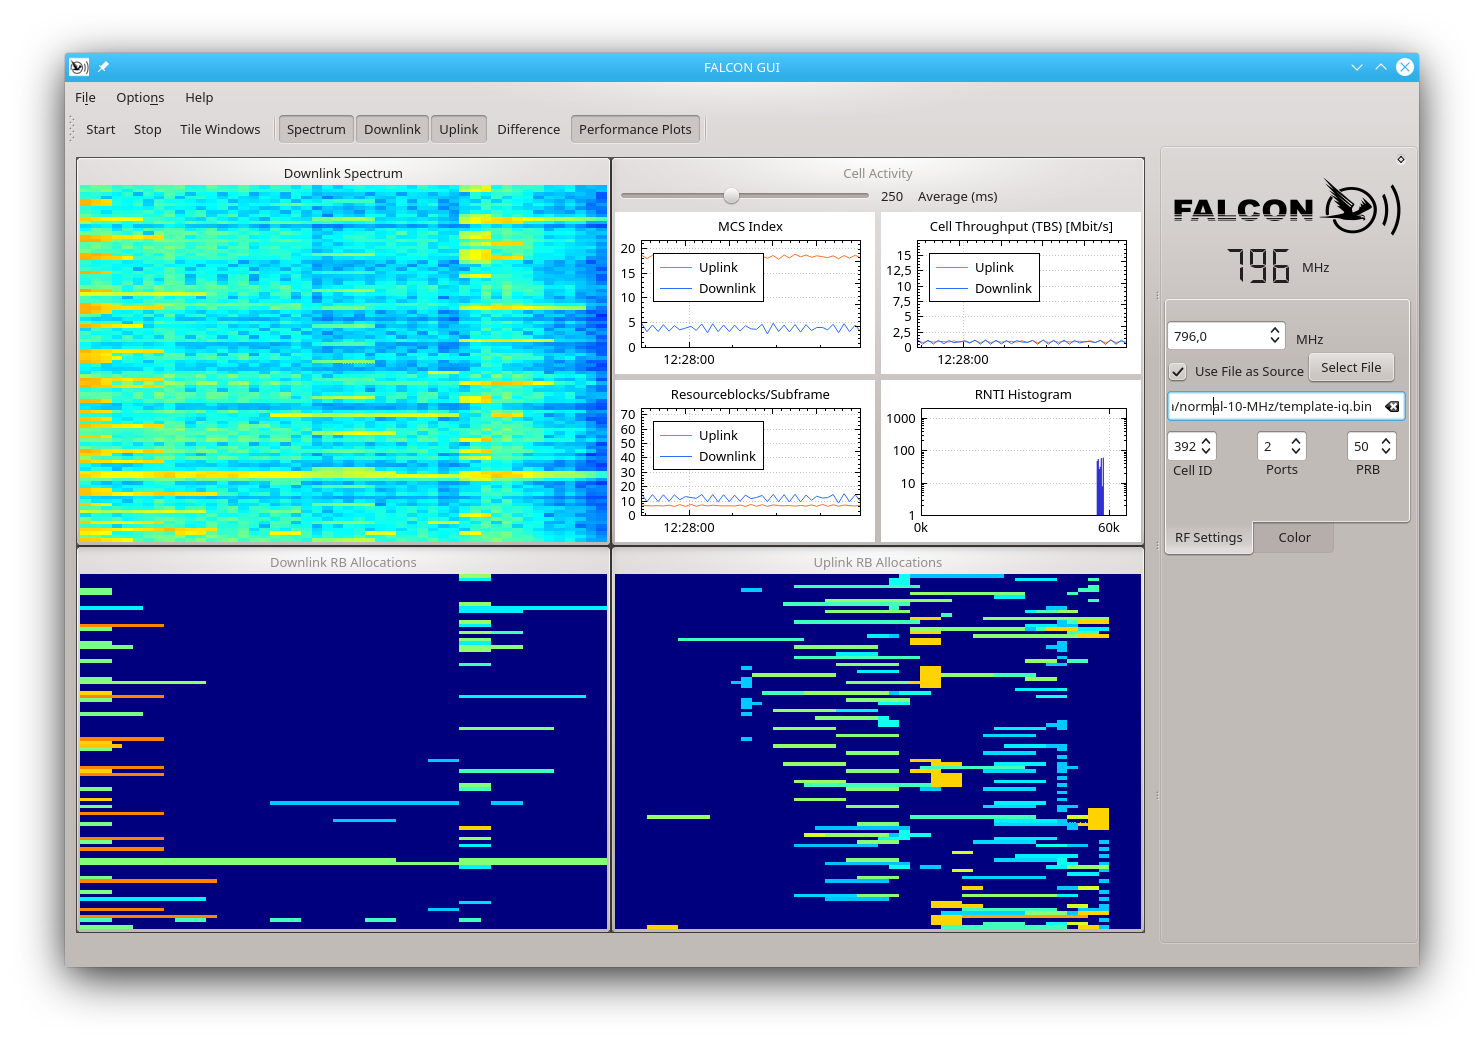
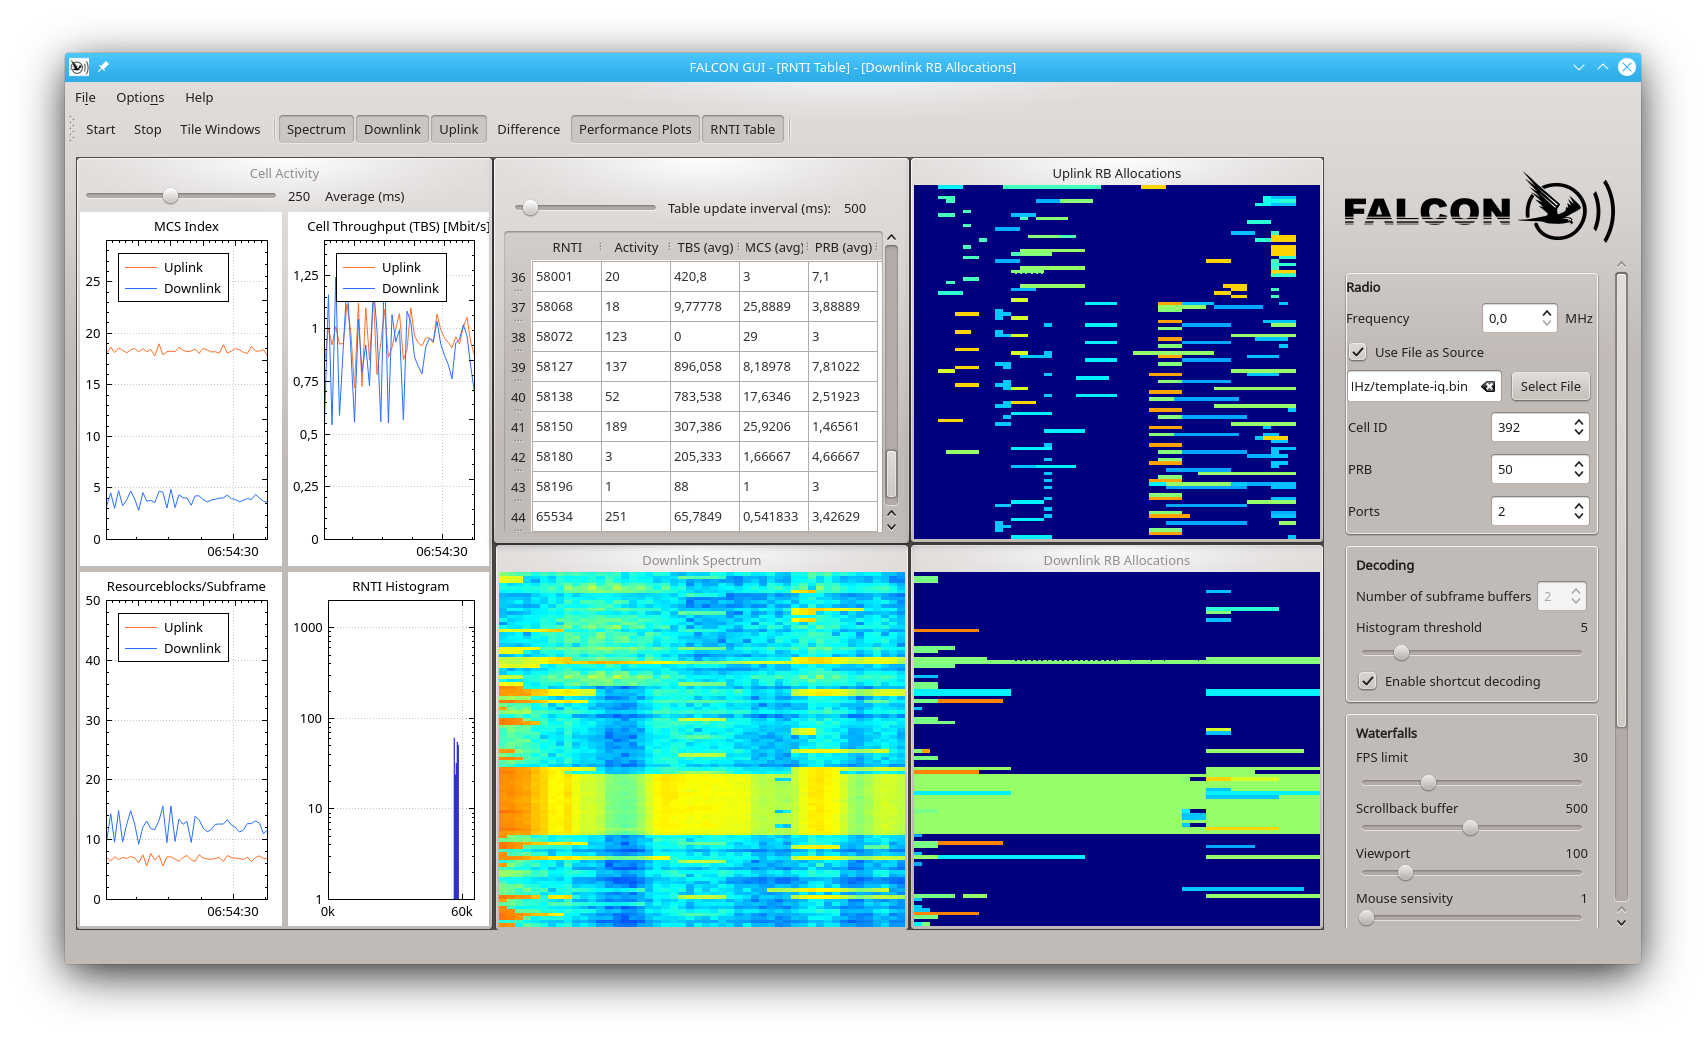
Update changelog, readme and screenshot

diff --git a/README.md b/README.md
@@ -93,6 +93,9 @@ $ cmake ../
 $ make
 ```
 
+**Note:** FALCON requires a patched version of srsLTE 18.12 that is automatically downloaded and included as subproject during the build process. However if you need srsLTE to be installed on your system in a different version 
+, please run: ``cmake -DFORCE_SUBPROJECT_SRSLTE=ON ../``
+
 ## SDR Hardware
 FALCON has been tested with the following Software Defined Radios (SDRs):
 
@@ -148,6 +151,8 @@ Enter the center frequency of the target LTE cell or select a recording from a f
 
 Press 'Start' and the decoder immediately starts to synchronize to the cell and decodes the PDCCH.
 The GUI will display waterfall plots of the spectrum and resource allocations (uplink and downlink) in real-time. The color of the displayed resource allocations is derived from the individual RNTIs of the particular subscribers.
+
+**Note:** At any time, you can click on a waterfall plot to freeze current state. Scroll to go back and forth in time within the scrollback buffer.
 
 
 ![FALCON Screenshot](gfx/FalconGUI.png "Falcon GUI Screenshot")

diff --git a/CHANGELOG.md b/CHANGELOG.md
@@ -1,6 +1,30 @@
 FALCON Changelog
 ================
 
+# v1.1.0
+
+## General
+- Major refactoring of GUI
+- Helper scripts for setting CPU governor and real-time permissions
+
+## FalconEye
+- Options for histogram (-H) and Short-cut decoding (-L)
+- Option for subframe buffering (-W)
+- Options for DCI format selection (-s, -S, -T)
+
+## GUI
+- Improve usability
+- Improve performance
+- Personalization options for:
+    - Histogram and Short-cut decoding
+    - Subframe buffering
+    - GUI repaint intervals (FPS)
+    - Scrollback history and viewport
+- Add RNTI table showing per-user statistics
+
+## Miscellaneous
+- Code cleaning
+
 # v1.0.0
 
 ## General
